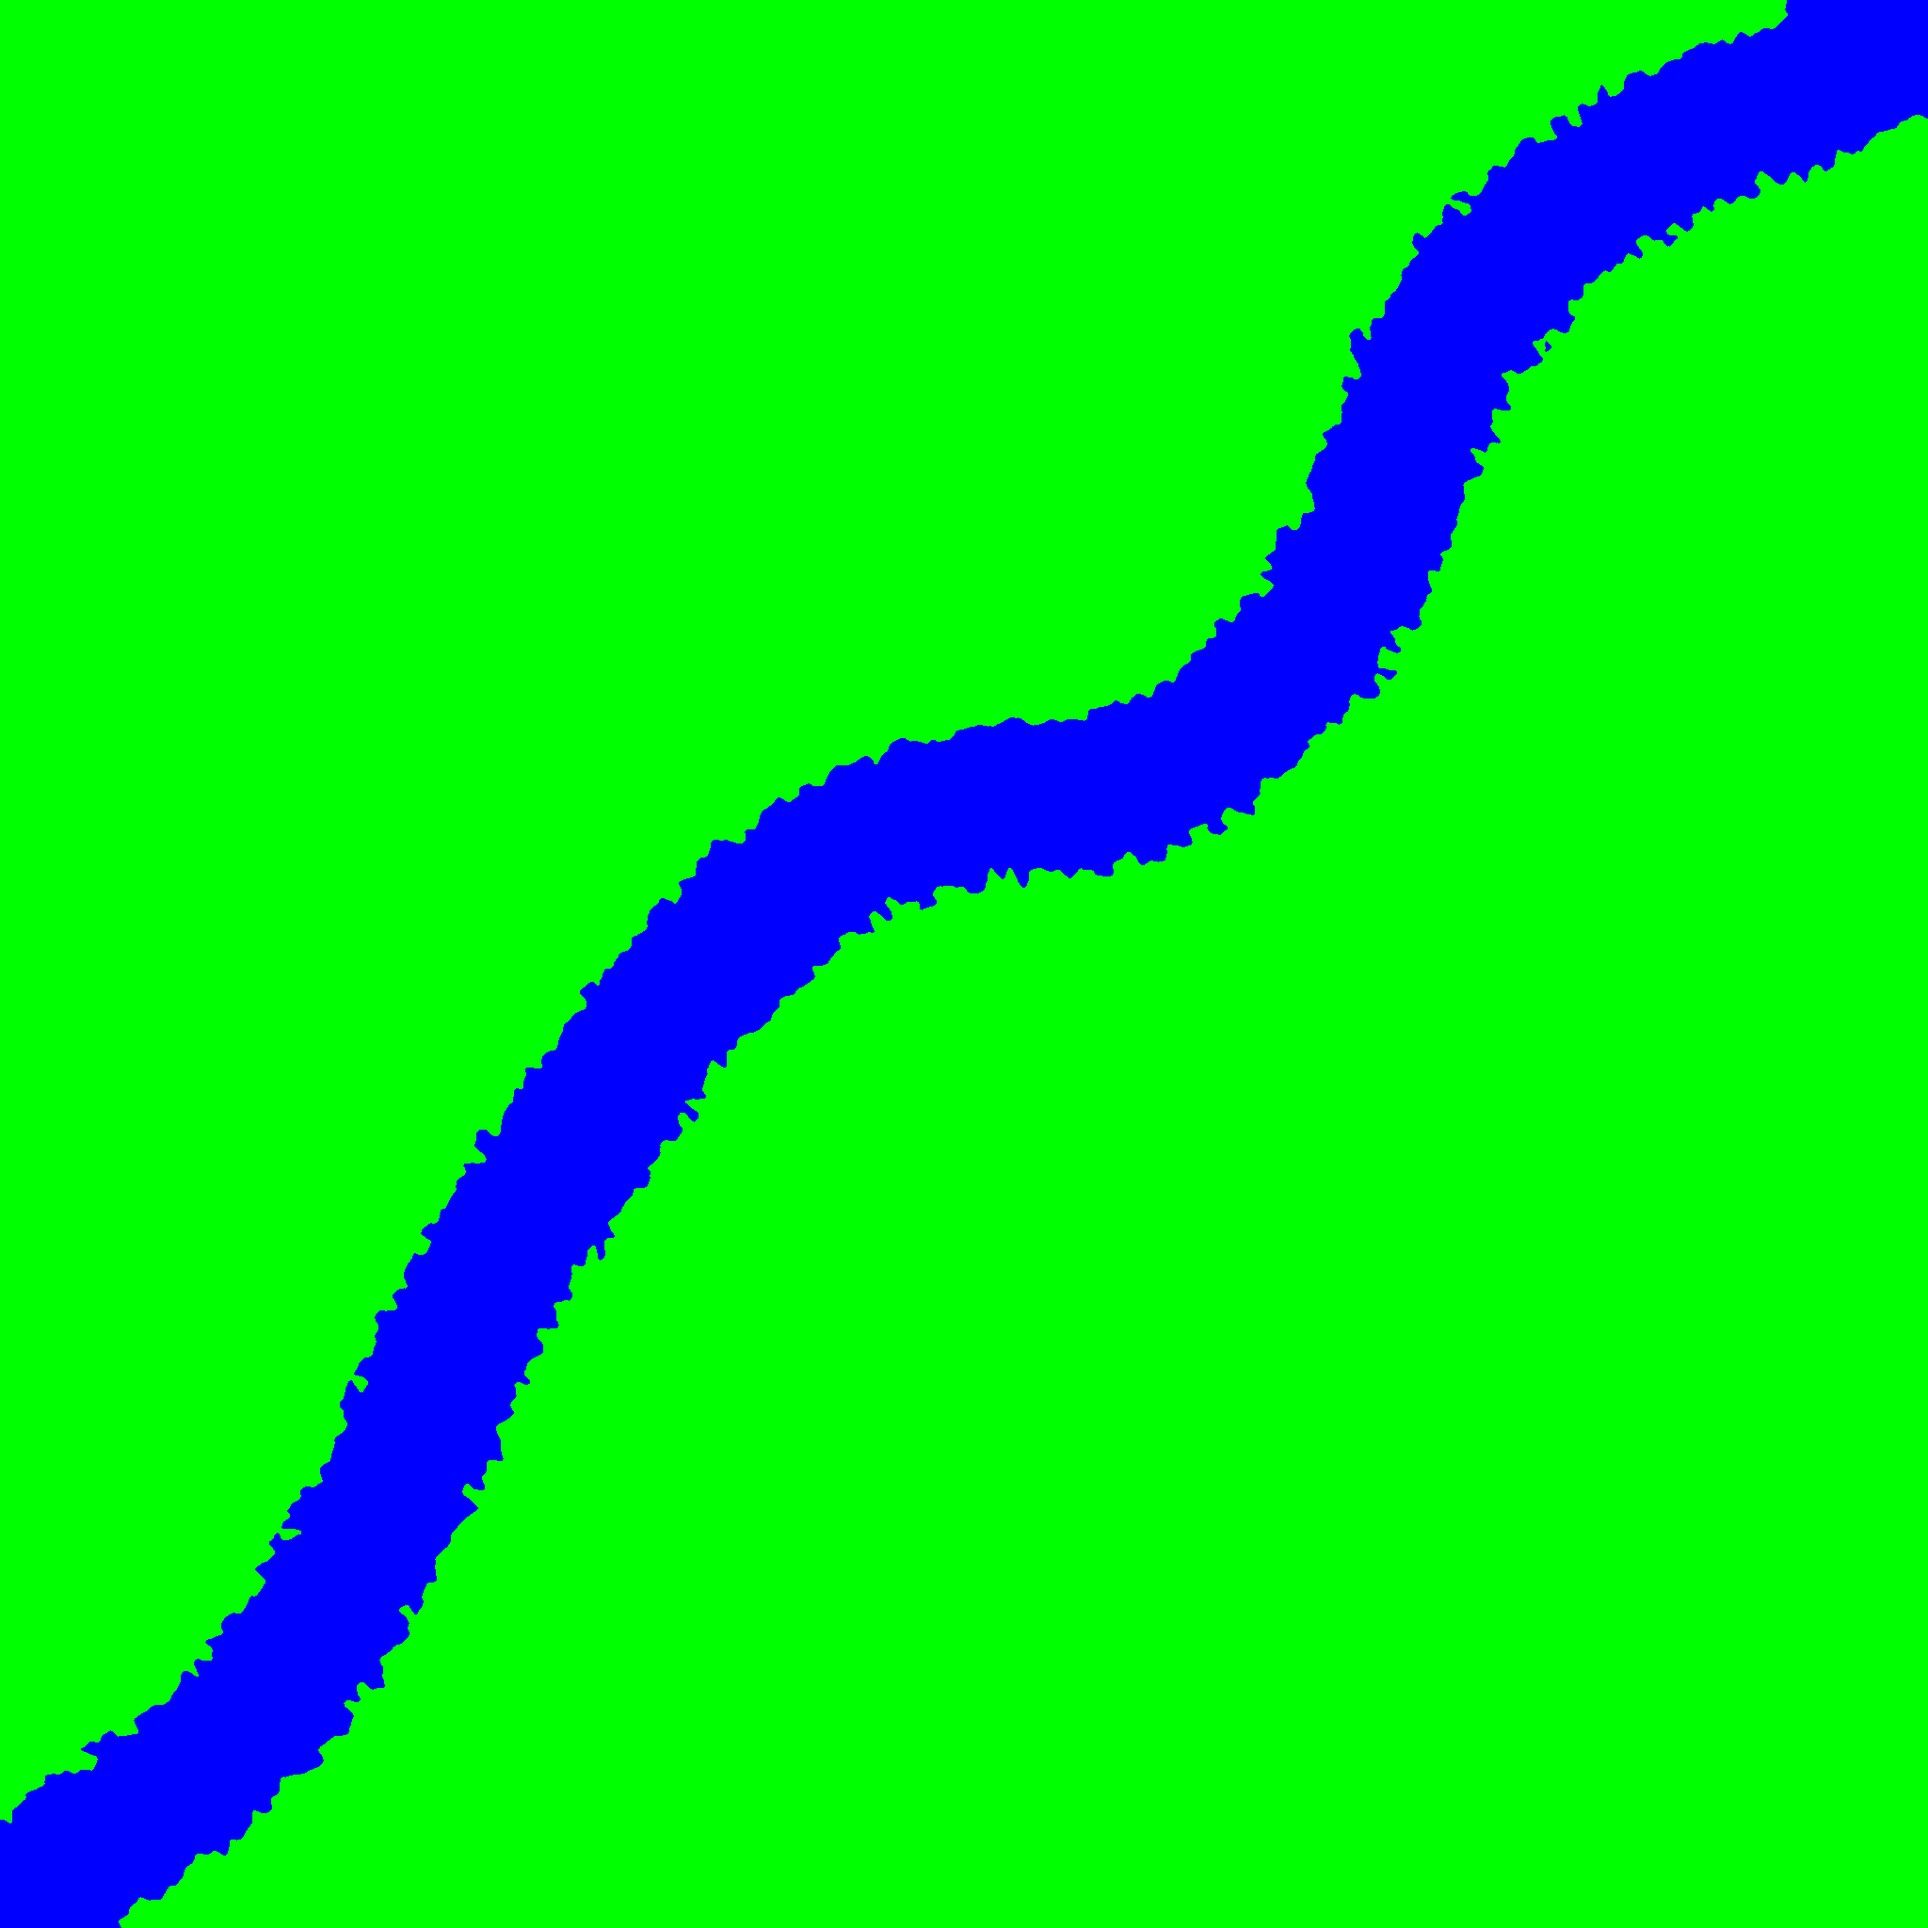
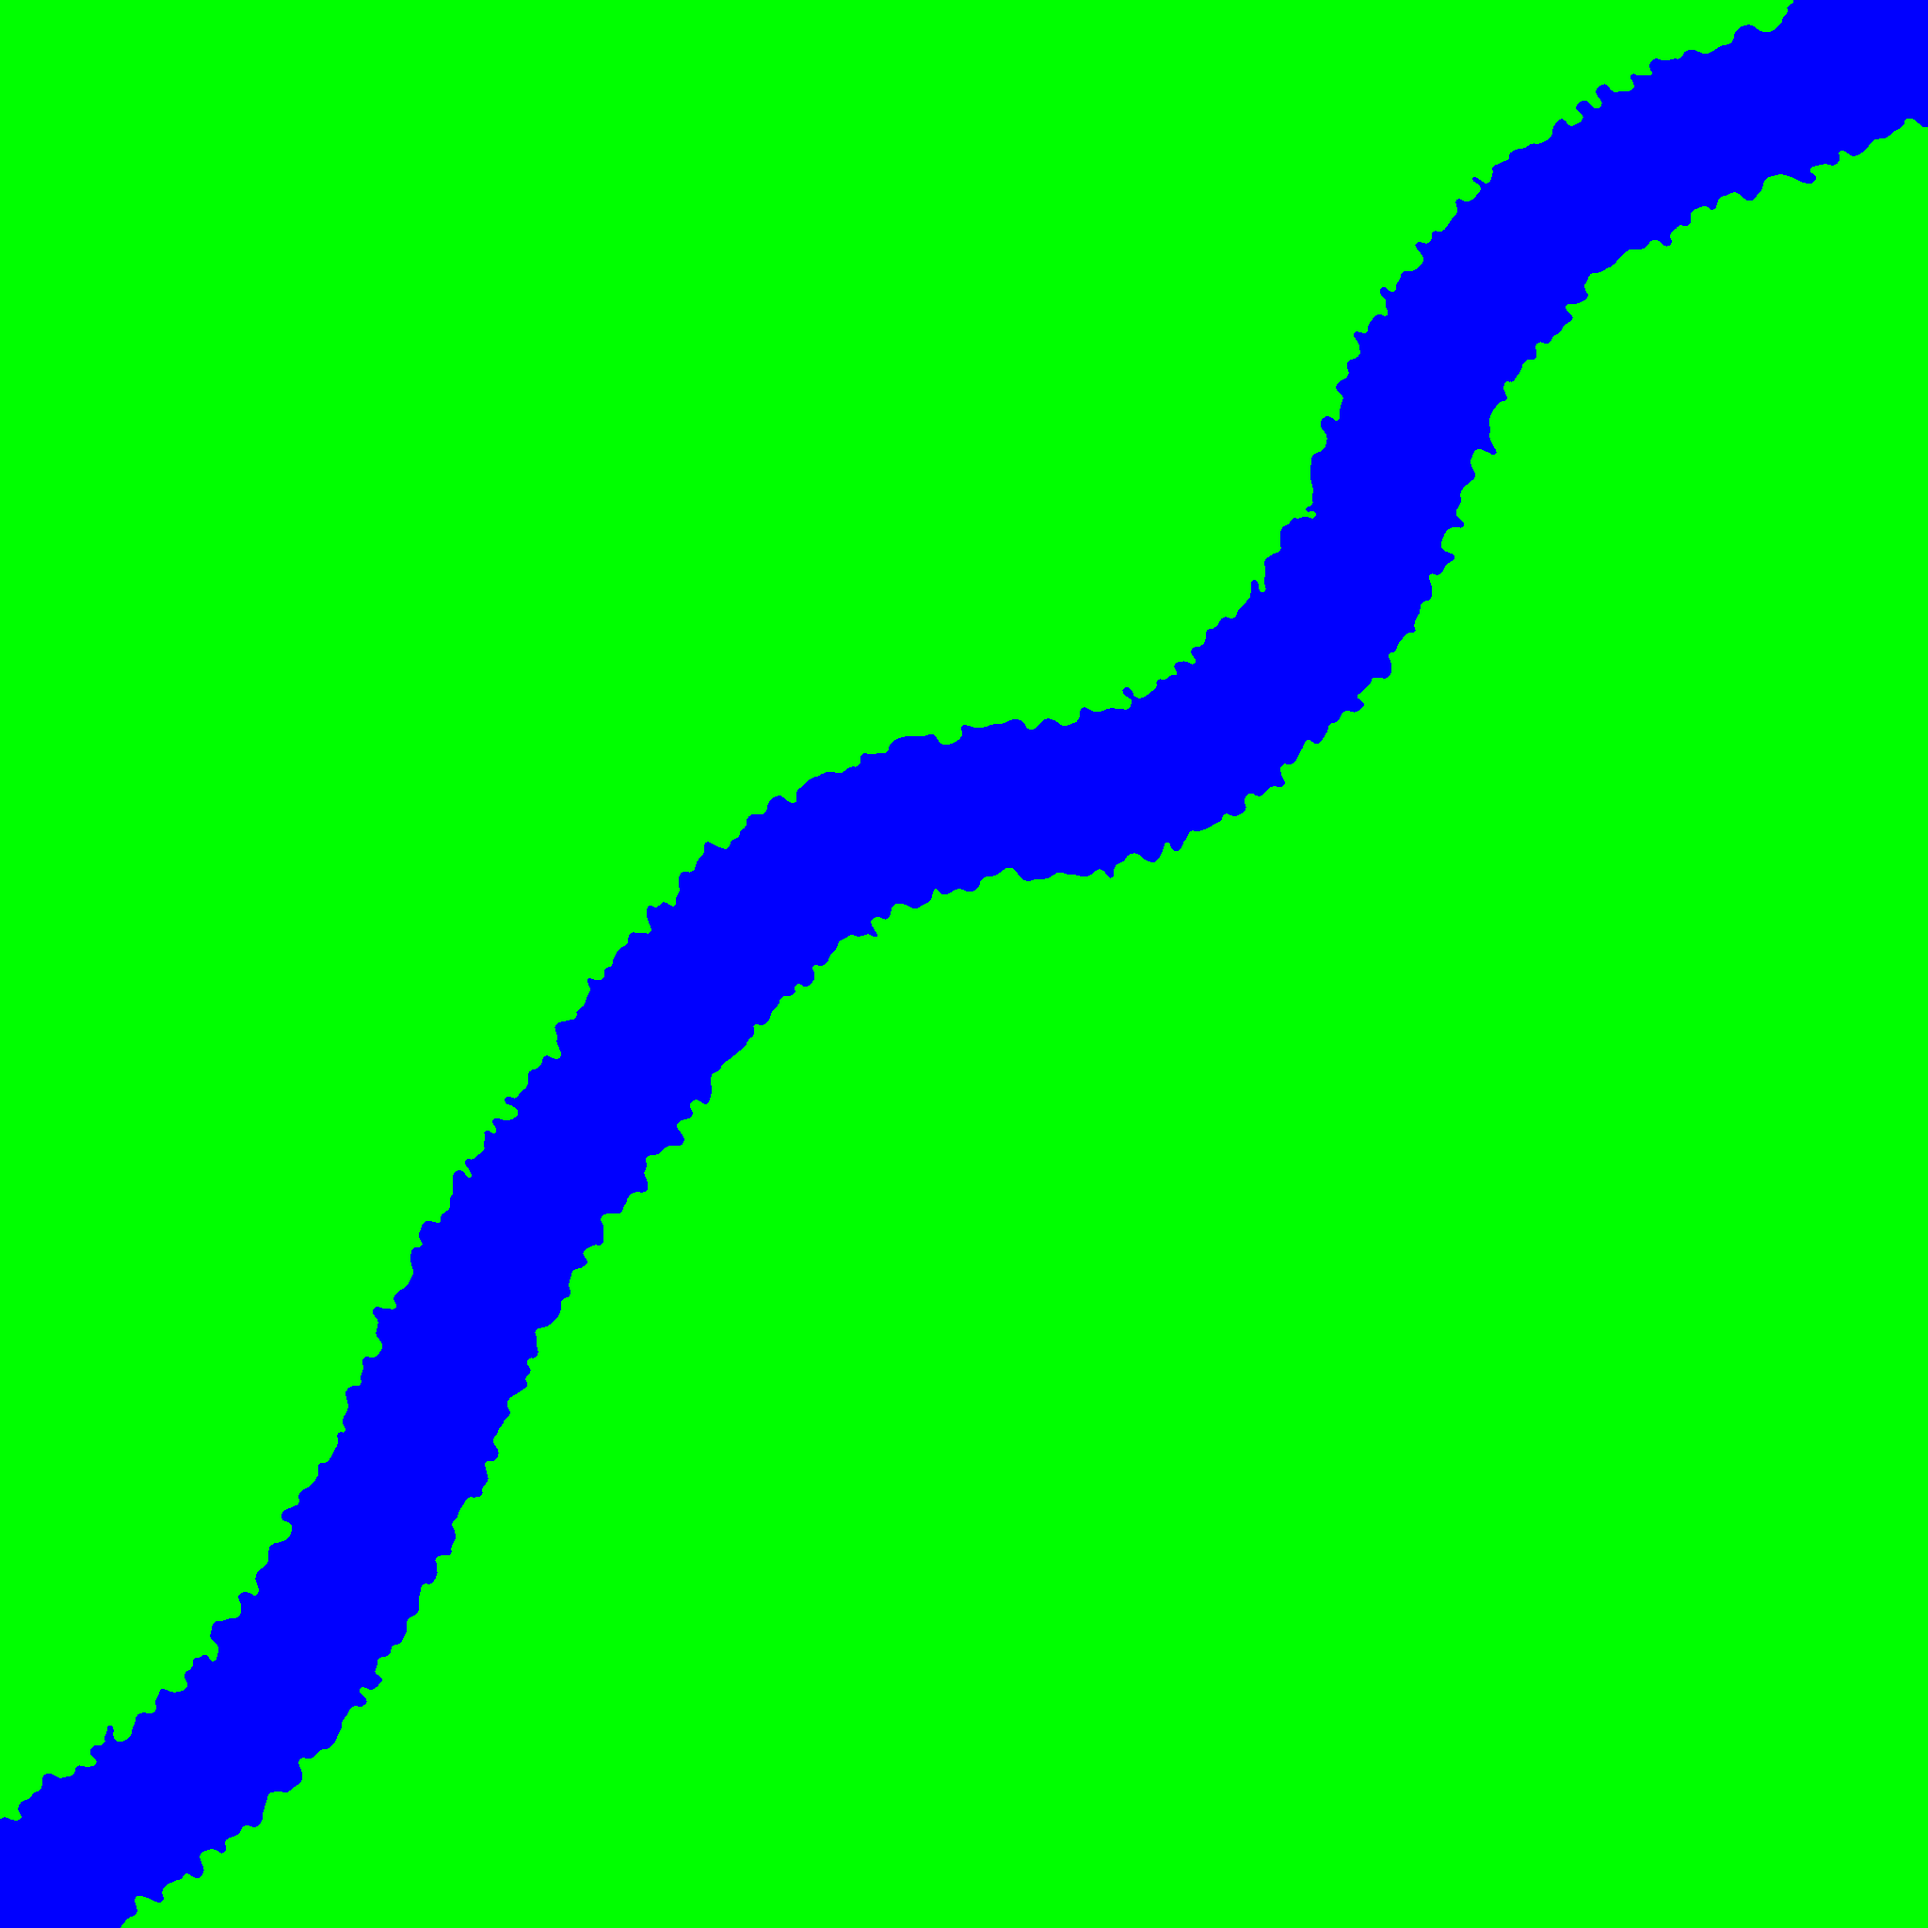
ye

diff --git a/src/main.rs b/src/main.rs
@@ -17,107 +17,113 @@ fn main() {
     let mut image = RgbaImage::new(2048, 2048);
     let mut colors: HashMap<(i64, i64), Rgba<u8>> = HashMap::new();
 
-    let fort = Source::perlin(0)
-        .scale([0.05, 0.05])
-        .fbm(8, 2.0, 2.0, 0.5)
-        .mul(4.0);
+    let fort = Source::worley(0)
+        .scale([0.005, 0.005])
+        .fbm(1, 1.0, 1.0, 1.0)
+        .mul(1.0);
     let nite = Source::perlin(1)
         .scale([0.05, 0.05])
-        .fbm(8, 2.0, 2.0, 0.5)
-        .mul(4.0);
+        .fbm(8, 1.0, 2.0, 0.25)
+        .mul(16.0);
 
-    // Visualizer::<2>::new([2048, 2048], &fort)
-    //     .write_to_file("fort.png")
-    //     .unwrap();
+    Visualizer::<2>::new([2048, 2048], &fort)
+        .write_to_file("fort.png")
+        .unwrap();
 
-    let mut get_base_color = |x: f64, y: f64| {
-        let ox = fort.sample([x + 0.01, y + 0.01]);
-        let oy = nite.sample([x + 0.01, y + 0.01]);
+    // let mut get_base_color = |x: f64, y: f64| {
+    //     let ox = fort.sample([x + 0.01, y + 0.01]);
+    //     let oy = nite.sample([x + 0.01, y + 0.01]);
 
-        let site = vor.nearest_site((x + ox) as i64, (y + oy) as i64);
-        if colors.contains_key(&site) {
-            let color = *colors.get(&site).unwrap();
-            return color;
-        } else {
-            let site_box = ((site.0 / 16).clamp(0, 127), (site.1 / 16).clamp(0, 127));
-            let color = template.get_pixel(site_box.0 as u32, site_box.1 as u32);
+    //     let color = template.get_pixel(
+    //         ((x + ox) as u32 / 16).clamp(0, 127),
+    //         ((y + oy) as u32 / 16).clamp(0, 127),
+    //     );
+    //     return color;
 
-            colors.insert(site, color);
-            return color;
-        }
-    };
+    //     // let site = vor.nearest_site((x + ox) as i64, (y + oy) as i64);
+    //     // if colors.contains_key(&site) {
+    //     //     let color = *colors.get(&site).unwrap();
+    //     //     return color;
+    //     // } else {
+    //     //     let site_box = ((site.0 / 16).clamp(0, 127), (site.1 / 16).clamp(0, 127));
+    //     //     let color = template.get_pixel(site_box.0 as u32, site_box.1 as u32);
 
-    let mut cache: HashMap<(i64, i64), Rgba<u8>> = HashMap::new();
+    //     //     colors.insert(site, color);
+    //     //     return color;
+    //     // }
+    // };
 
-    let mut get_color = |x: f64, y: f64| {
-        let mut counts: HashMap<Rgba<u8>, u8> = HashMap::new();
+    // let mut cache: HashMap<(i64, i64), Rgba<u8>> = HashMap::new();
 
-        for xo in -2..=2 {
-            for yo in -2..=2 {
-                let color;
-                if cache.contains_key(&(x as i64 + xo as i64, y as i64 + yo as i64)) {
-                    color = *cache
-                        .get(&(x as i64 + xo as i64, y as i64 + yo as i64))
-                        .unwrap();
-                } else {
-                    color = get_base_color(x + xo as f64, y + yo as f64);
-                    cache.insert((x as i64 + xo as i64, y as i64 + yo as i64), color);
-                }
+    // let mut get_color = |x: f64, y: f64| {
+    //     let mut counts: HashMap<Rgba<u8>, u8> = HashMap::new();
 
-                let count = *counts.get(&color).unwrap_or(&0);
+    //     for xo in -4..=4 {
+    //         for yo in -4..=4 {
+    //             let color;
+    //             if cache.contains_key(&(x as i64 + xo as i64, y as i64 + yo as i64)) {
+    //                 color = *cache
+    //                     .get(&(x as i64 + xo as i64, y as i64 + yo as i64))
+    //                     .unwrap();
+    //             } else {
+    //                 color = get_base_color(x + xo as f64, y + yo as f64);
+    //                 cache.insert((x as i64 + xo as i64, y as i64 + yo as i64), color);
+    //             }
 
-                counts.insert(color, count + 1);
-            }
-        }
+    //             let count = *counts.get(&color).unwrap_or(&0);
 
-        let mut highest = 0;
-        let mut ret = Rgba([0, 0, 0, 0]);
+    //             counts.insert(color, count + 1);
+    //         }
+    //     }
 
-        for color in counts {
-            if highest < color.1 {
-                highest = color.1;
-                ret = color.0;
-            } else if highest == color.1 {
-                let base = get_base_color(x, y);
-                if base == color.0 {
-                    ret = color.0;
-                }
-            }
-        }
+    //     let mut highest = 0;
+    //     let mut ret = Rgba([0, 0, 0, 0]);
 
-        // println!("{x}, {y}, {}, {}, {}", ret[0], ret[1], ret[2]);
+    //     for color in counts {
+    //         if highest < color.1 {
+    //             highest = color.1;
+    //             ret = color.0;
+    //         } else if highest == color.1 {
+    //             let base = get_base_color(x, y);
+    //             if base == color.0 {
+    //                 ret = color.0;
+    //             }
+    //         }
+    //     }
 
-        ret
-    };
+    //     // println!("{x}, {y}, {}, {}, {}", ret[0], ret[1], ret[2]);
 
-    for x in 0..2048 {
-        for y in 0..2048 {
-            let color = get_color(x as f64, y as f64);
+    //     ret
+    // };
 
-            image.put_pixel(x, y, color);
+    // for x in 0..2048 {
+    //     for y in 0..2048 {
+    //         let color = get_color(x as f64, y as f64);
 
-            // let ox = fort.sample([x as f64 + 0.01, y as f64 + 0.01]);
-            // let oy = nite.sample([x as f64 + 0.01, y as f64 + 0.01]);
+    //         image.put_pixel(x, y, color);
 
-            // let site = vor.nearest_site((x as f64 + ox) as i64, (y as f64 + oy) as i64);
-            // if colors.contains_key(&site) {
-            //     let color = colors.get(&site).unwrap();
-            //     image.put_pixel(x as u32, y as u32, *color);
-            // } else {
-            //     let site_box = (site.0 / 16, site.1 / 16);
-            //     let color;
+    //         // let ox = fort.sample([x as f64 + 0.01, y as f64 + 0.01]);
+    //         // let oy = nite.sample([x as f64 + 0.01, y as f64 + 0.01]);
 
-            //     if site_box.0 > 127 || site_box.1 > 127 || site_box.0 < 0 || site_box.1 < 0 {
-            //         color = Rgba([0, 255, 0, 255]);
-            //     } else {
-            //         color = template.get_pixel(site_box.0 as u32, site_box.1 as u32);
-            //     }
+    //         // let site = vor.nearest_site((x as f64 + ox) as i64, (y as f64 + oy) as i64);
+    //         // if colors.contains_key(&site) {
+    //         //     let color = colors.get(&site).unwrap();
+    //         //     image.put_pixel(x as u32, y as u32, *color);
+    //         // } else {
+    //         //     let site_box = (site.0 / 16, site.1 / 16);
+    //         //     let color;
 
-            //     colors.insert(site, color);
-            //     image.put_pixel(x as u32, y as u32, color);
-            // }
-        }
-    }
+    //         //     if site_box.0 > 127 || site_box.1 > 127 || site_box.0 < 0 || site_box.1 < 0 {
+    //         //         color = Rgba([0, 255, 0, 255]);
+    //         //     } else {
+    //         //         color = template.get_pixel(site_box.0 as u32, site_box.1 as u32);
+    //         //     }
 
-    let _ = image.save("vorsq.png");
+    //         //     colors.insert(site, color);
+    //         //     image.put_pixel(x as u32, y as u32, color);
+    //         // }
+    //     }
+    // }
+
+    // let _ = image.save("vorsq.png");
 }
